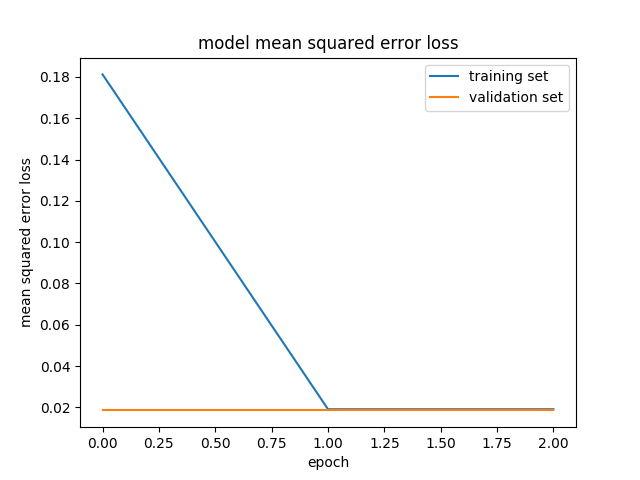
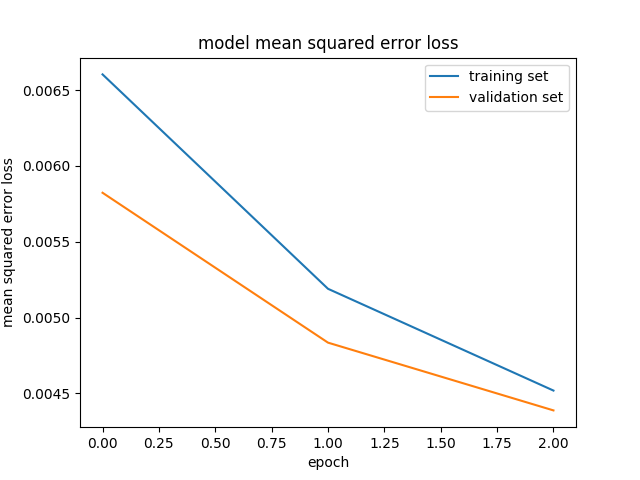
feat: Add mean squared logarithmic error

diff --git a/model.py b/model.py
@@ -3,6 +3,7 @@ import math
 from keras.models import Sequential
 from keras.layers import Flatten, Dense, Lambda, MaxPooling2D, Conv2D, Cropping2D
 from keras.callbacks import EarlyStopping
+from keras.optimizers import SGD
 from sklearn.utils import shuffle
 from sklearn.model_selection import train_test_split
 import csv
@@ -134,7 +135,8 @@ model.add(Dense(50))
 # As we're doing regression here, we only need 1 output. 
 model.add(Dense(1))
 
-model.compile(optimizer='adam', loss='mse')
+opt = SGD(lr = 0.001, momentum = 0.9)
+model.compile(optimizer=opt, loss='mean_squared_logarithmic_error')
 
 model.summary()
 
@@ -142,7 +144,8 @@ callback = EarlyStopping(monitor='val_loss', patience = 1)
 
 history_object = model.fit_generator(train_generator, steps_per_epoch=math.ceil(len(train_samples)/batch_size), 
                     validation_data=validation_generator, validation_steps=math.ceil(len(validation_samples)/batch_size), 
-                    epochs=3, verbose=1, callbacks=[callback])
+                    epochs=3, verbose=1)
+                                     #, callbacks=[callback])
 
 ### plot the training and validation loss for each epoch
 plt.plot(history_object.history['loss'])
